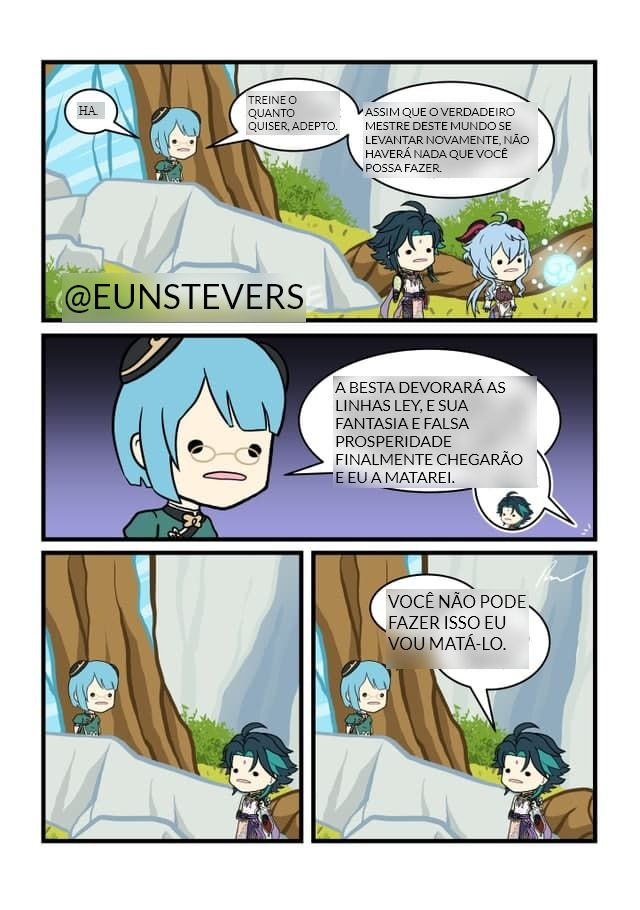
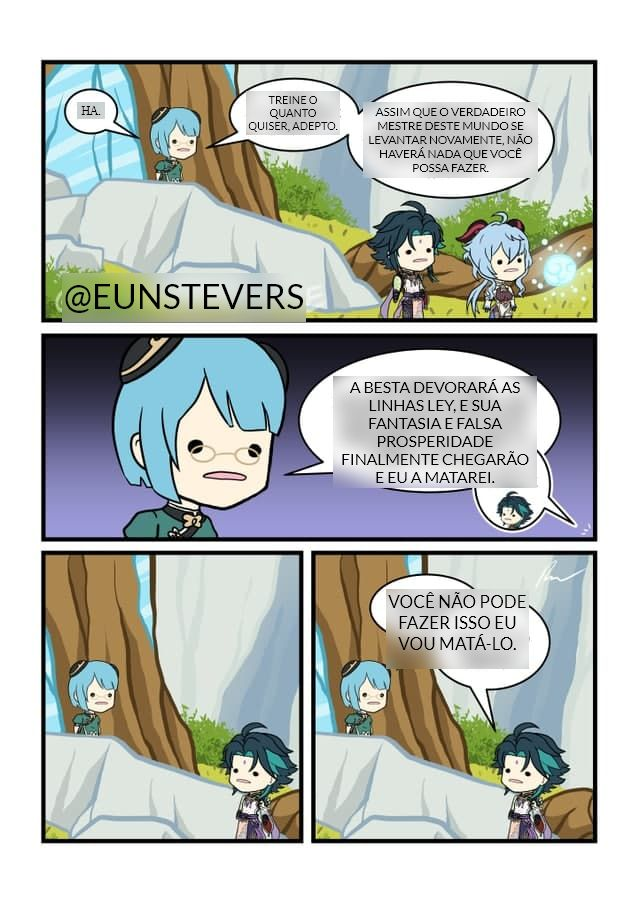
Fix

diff --git a/lib/ImageGeneratorCtx.js b/lib/ImageGeneratorCtx.js
@@ -24,9 +24,9 @@ module.exports = class ImageGeneratorCtx {
       this.page.setViewport(this.instance.size);
       await this.page.goto('file://' + path.join(__dirname, '../resources/blank.html'));
       await this.drawImage({ src: this.instance.backgroundImage, x: 0, y: 0 });
-      await this.blurs();
-      await this.page.screenshot({ path: outImgPath });
-      this.loadedImage = await this.loadImage(outImgPath);
+      //await this.blurs();
+      //await this.page.screenshot({ path: outImgPath });
+      this.loadedImage = await this.loadImage(this.instance.backgroundImage);
       await this.drawTexts();
       await this.adjustFontSize();
       await this.page.screenshot({ path: outImgPath });
@@ -53,7 +53,10 @@ module.exports = class ImageGeneratorCtx {
 
   async drawTexts() {
     for (const text of this.instance.texts) {
-      await this.drawText(text);
+      const colors = this.getColors(text);
+      const args = { ...text, colors };
+      await this.blur(args)
+      await this.drawText(args);
     }
   }
 
@@ -73,29 +76,50 @@ module.exports = class ImageGeneratorCtx {
     return (L > 0.179) ? darkColor : lightColor;
   }
 
+  getColors(args) {
+    const startBgColor = Jimp.intToRGBA(this.loadedImage.getPixelColor(args.x, args.y));
+    const endBgColor = Jimp.intToRGBA(this.loadedImage.getPixelColor(args.x + args.width, args.y + args.height));
+    const startBgColorHex = '#' + rgbHex(startBgColor.r, startBgColor.g, startBgColor.b);
+    const endBgColorHex = '#' + rgbHex(endBgColor.r, endBgColor.g, endBgColor.b);
+    const startColor = this.pickTextColorBasedOnBgColorAdvanced(startBgColorHex, '#FFFFFF', '#000000');
+    const endColor = this.pickTextColorBasedOnBgColorAdvanced(endBgColorHex, '#FFFFFF', '#000000');
+    if (startBgColorHex == endBgColorHex) {
+      if (startBgColorHex == "#FFFFFF" || endBgColorHex == "#FFFFFF") {
+        return { text: "black", background: "white" };
+      } else if (startBgColorHex == "#000000" || endBgColorHex == "#000000") {
+        return { text: "white", background: "black" };
+      } else {
+        return { text: startColor, background: startBgColorHex };
+      }
+    }
+    if (startColor == endColor) {
+      return { text: startColor };
+    }
+    return { text: "white", background: "black" };
+  }
+
   async drawText(args) {
-    const bgColor = Jimp.intToRGBA(this.loadedImage.getPixelColor(args.x, args.y));
-    const bgColorHex = '#' + rgbHex(bgColor.r, bgColor.g, bgColor.b);
-    const color = this.pickTextColorBasedOnBgColorAdvanced(bgColorHex, '#FFFFFF', '#000000');
-    await this.page.evaluate((args, color) => {
+    await this.page.evaluate((args) => {
       const el = document.createElement('div');
       el.style.position = 'absolute';
       el.style.left = args.x;
       el.style.top = args.y;
       el.style.width = args.width;
       el.style.height = args.height;
+      el.style.textAlign = 'center';
       //el.style.overflow = 'hidden';
       el.style.padding = '2px';
       el.style.boxSizing = 'border-box';
+      el.style.zIndex = 2;
       el.classList.add('autofit');
 
       const span = document.createElement('span');
       span.innerText = args.text;
-      span.style.color = color;
+      span.style.color = args.colors.text;
 
       el.appendChild(span);
       document.body.appendChild(el);
-    }, args, color);
+    }, args);
   }
 
   async blur(args) {
@@ -107,16 +131,21 @@ module.exports = class ImageGeneratorCtx {
       el.style.top = args.y;
       el.style.width = args.width;
       el.style.height = args.height;
+      el.style.zIndex = 1;
       el.style.overflow = 'hidden';
-      el.style.backgroundColor = 'white';
 
-      const img = document.createElement('img');
-      img.src = args.src;
-      img.style.marginLeft = -args.x;
-      img.style.marginTop = -args.y;
-      img.style.filter = 'blur(10px)';
+      if (args.colors.background) {
+        el.style.backgroundColor = args.colors.background;
+      } else {
+        const img = document.createElement('img');
+        img.src = args.src;
+        img.style.marginLeft = -args.x;
+        img.style.marginTop = -args.y;
+        img.style.filter = 'blur(10px)';
+        el.style.backgroundColor = '#FFFFFF';
+        el.appendChild(img);
+      }
 
-      el.appendChild(img);
       document.body.appendChild(el);
     }, args);
   }
